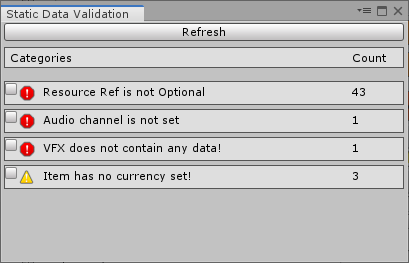
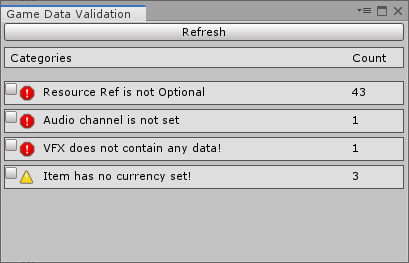
small update to doc

diff --git a/Editor/Window/GameDataValidationWindow.cs b/Editor/Window/GameDataValidationWindow.cs
@@ -40,7 +40,7 @@
         public static void OpenWindow()
         {
             var window = (GameDataValidationWindow)GetWindow(typeof(GameDataValidationWindow));
-            window.titleContent = new GUIContent("Static Data Validation");
+            window.titleContent = new GUIContent("Game Data Validation");
             window.Show();
         }
 
